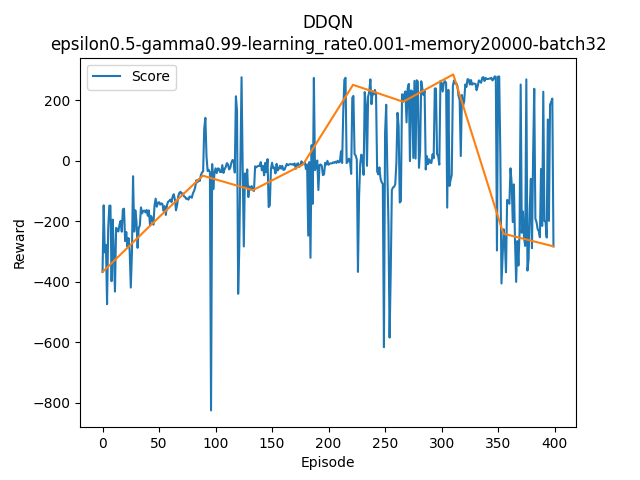
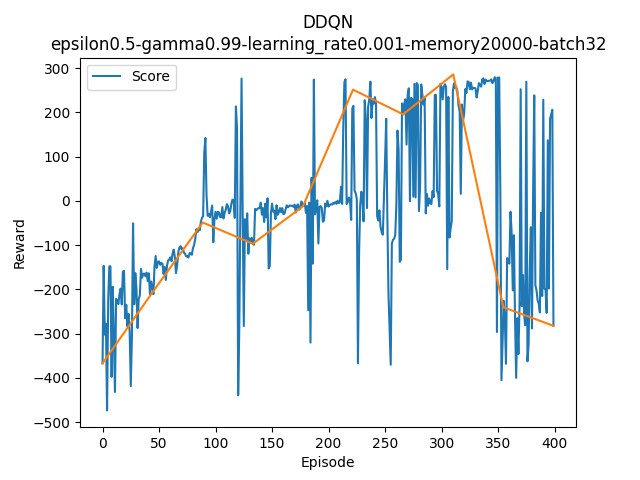
added plots

diff --git a/utils.py b/utils.py
@@ -43,6 +43,12 @@ def read_scores(path: str) -> pd.DataFrame:
 
 
 def plot_scores(_scores: pd.DataFrame, algo_name: str, params: str, save_path: str) -> None:
+    score_values = _scores.values
+    mean = np.mean(score_values)
+    for i in range(len(score_values)):
+        val = score_values[i]
+        if val < -500 or val > 450:
+            _scores.drop([i], axis=0, inplace=True)
     _scores.plot()
     x_y_spline = make_interp_spline(_scores.index, _scores['Score'])
     x_ = np.linspace(_scores.index.min(), _scores.index.max(), 10)
@@ -55,10 +61,10 @@ def plot_scores(_scores: pd.DataFrame, algo_name: str, params: str, save_path: s
     plt.show()
 
 
-def calculate_mean(_scores: pd.DataFrame, mean_path: str) -> None:
+def calculate_mean(_scores: pd.DataFrame, mean_path: str, params: str) -> None:
     mean = _scores['Score'][-100:].mean()
     # Write scores into file
-    mean_file = open(mean_path + "/average.txt", "a+")
-    mean_file.write(f"Average over last 100 episodes: {mean} \n")
+    mean_file = open(mean_path + "/average.txt", "w")
+    mean_file.write(f"Average over last 100 episodes: {mean} with episode length {len(_scores)} with params {params} \n")
     mean_file.flush()
     mean_file.close()

diff --git a/mean.py b/mean.py
@@ -13,7 +13,7 @@ parser.add_argument(
     "--save_path", type=str, default="experiments", help="Path for model and logs"
 )
 parser.add_argument(
-    "--algorithm", type=str, default="ddqn", help="Algorithm"
+    "--algorithm", type=str, default="a2c", help="Algorithm"
 )
 args = parser.parse_args()
 
@@ -25,7 +25,7 @@ def main():
         scores = read_scores(path=scores_path)
         mean_path = args.save_path + "/" + args.algorithm + "/" + directory + "/result"
         os.makedirs(mean_path, exist_ok=True)
-        calculate_mean(_scores=scores, mean_path=mean_path)
+        calculate_mean(_scores=scores, mean_path=mean_path, params=directory)
 
 
 if __name__ == '__main__':

diff --git a/plot.py b/plot.py
@@ -12,7 +12,7 @@ parser.add_argument(
     "--save_path", type=str, default="experiments", help="Path for model and logs"
 )
 parser.add_argument(
-    "--algorithm", type=str, default="dqn", help="Algorithm"
+    "--algorithm", type=str, default="a2c", help="Algorithm"
 )
 args = parser.parse_args()
 
